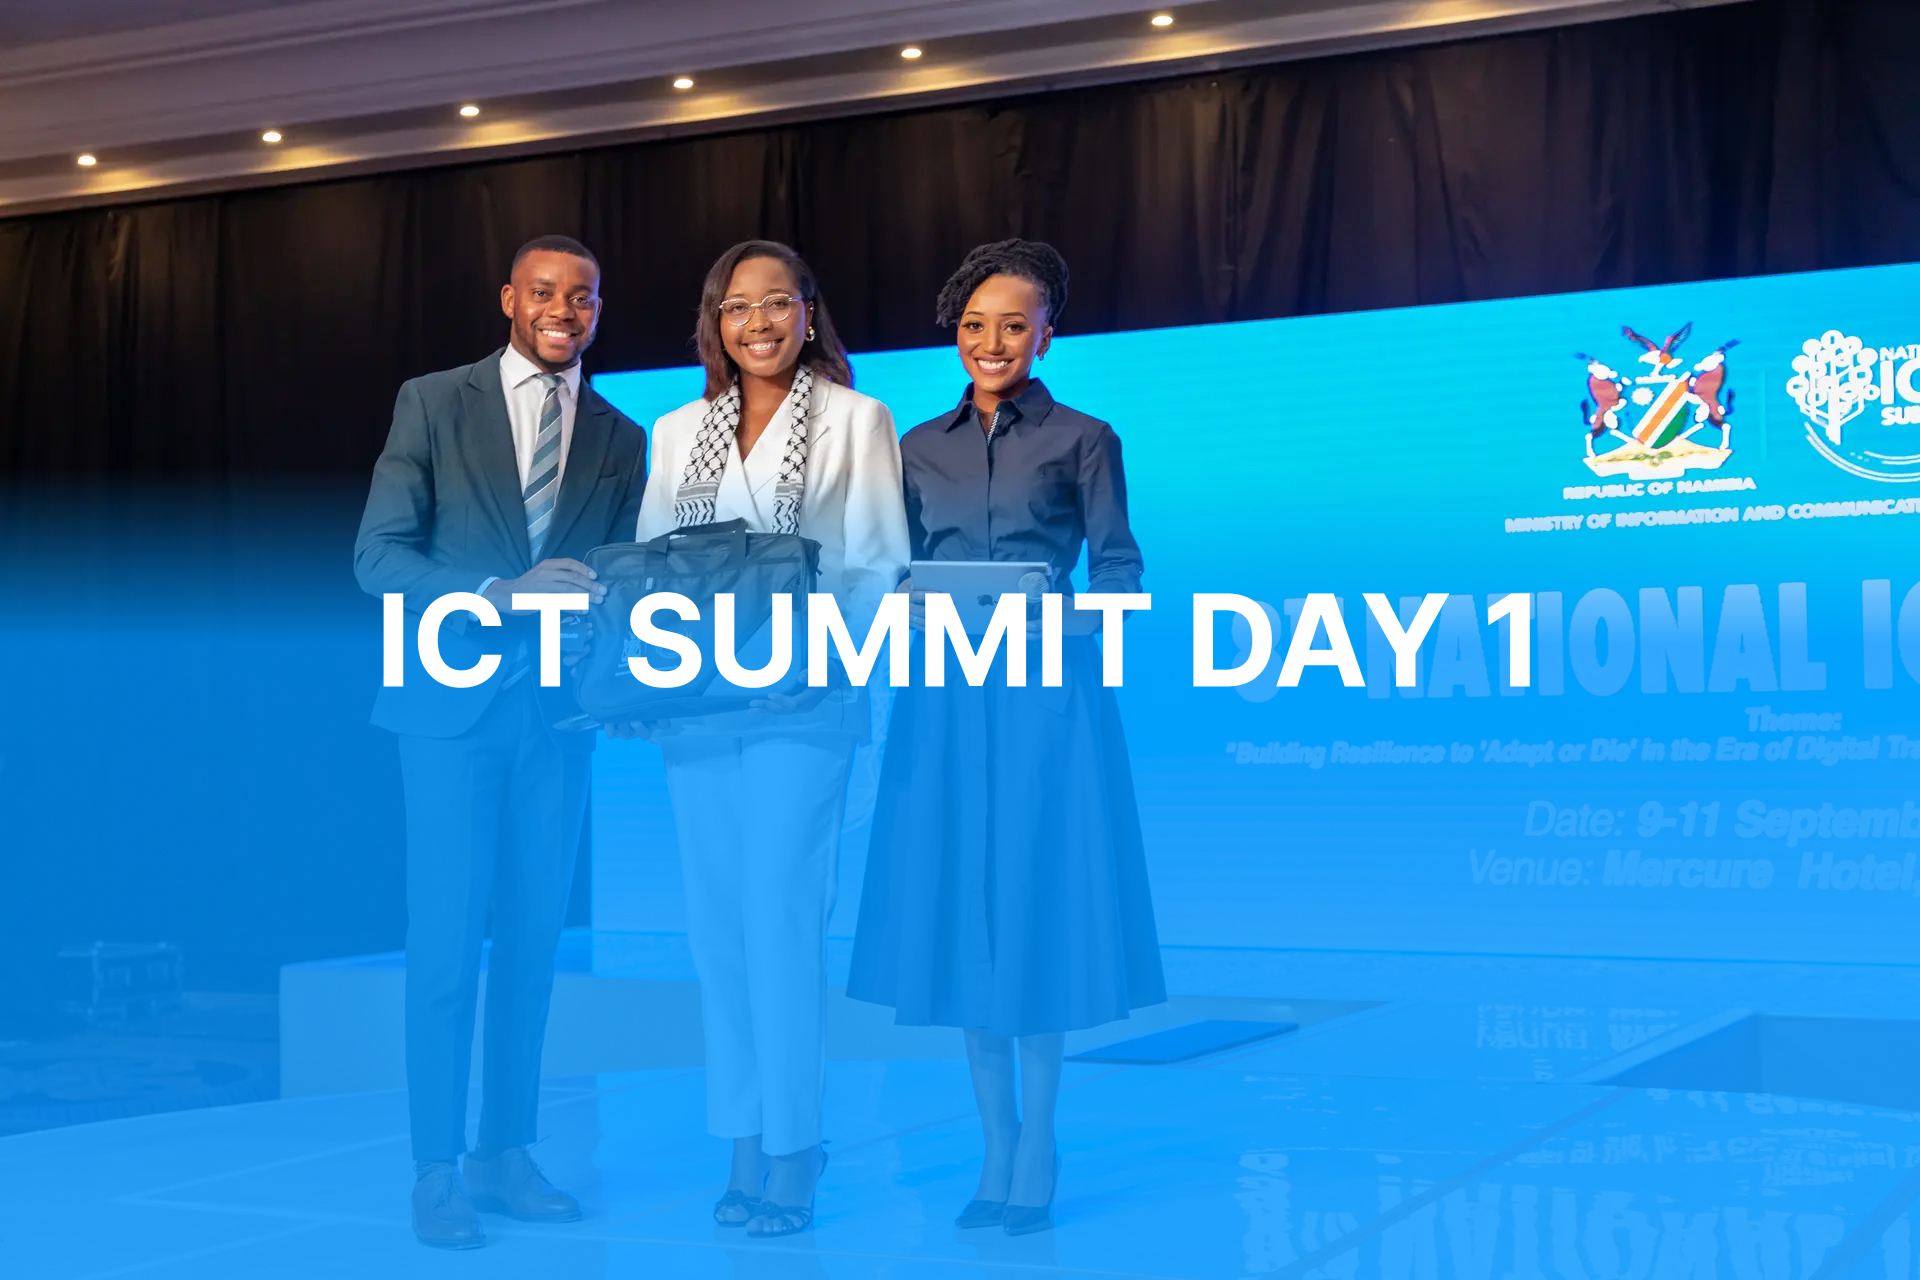
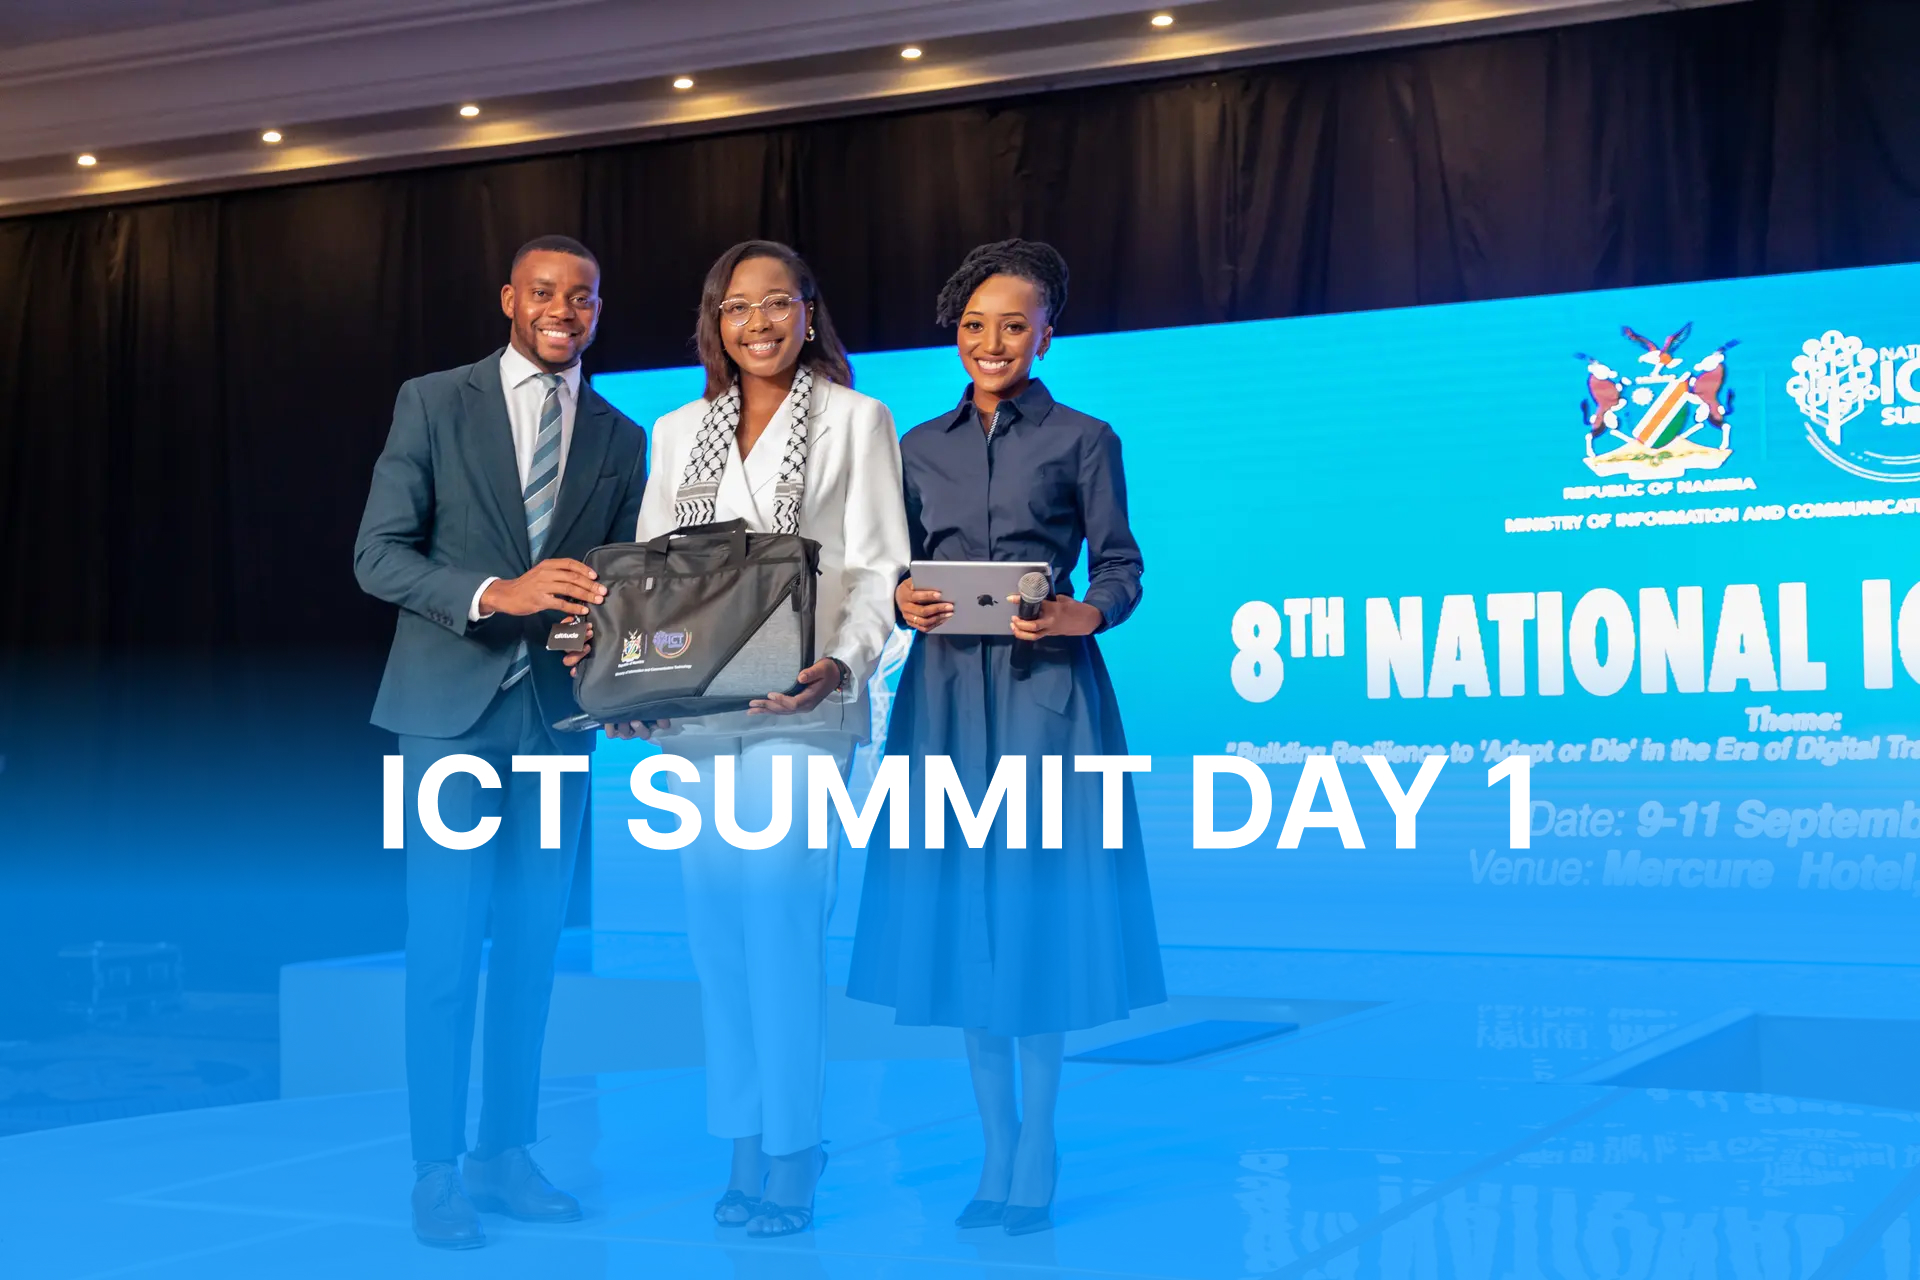
Add day 2 and day 3 images

Changed region(s): [[0.0, 0.375, 1.0, 0.6875]]

diff --git a/src/app/ui/photo-gallery.jsx b/src/app/ui/photo-gallery.jsx
@@ -45,6 +45,20 @@ const images = [
   { src: "/image-gallery-2024/185A0394.jpg", alt: "ICT SUMMIT 2024" },
   { src: "/image-gallery-2024/185A0401.jpg", alt: "ICT SUMMIT 2024" },
   { src: "/image-gallery-2024/185A0425.jpg", alt: "ICT SUMMIT 2024" },
+  { src: "/image-gallery-2024/Day-2-cover.jpg", alt: "ICT SUMMIT 2024" },
+  { src: "/image-gallery-2024/185A9993.jpg", alt: "ICT SUMMIT 2024" },
+  { src: "/image-gallery-2024/185A9987.jpg", alt: "ICT SUMMIT 2024" },
+  { src: "/image-gallery-2024/185A9951.jpg", alt: "ICT SUMMIT 2024" },
+  { src: "/image-gallery-2024/Day-3-cover.jpg", alt: "ICT SUMMIT 2024" },
+  { src: "/image-gallery-2024/185A1637.jpg", alt: "ICT SUMMIT 2024" },
+  { src: "/image-gallery-2024/185A1659.jpg", alt: "ICT SUMMIT 2024" },
+  { src: "/image-gallery-2024/185A1669.jpg", alt: "ICT SUMMIT 2024" },
+  { src: "/image-gallery-2024/185A1691.jpg", alt: "ICT SUMMIT 2024" },
+
+
+
+
+  
   ];
   
   export default function PhotoGallery() {
